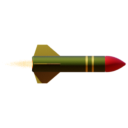
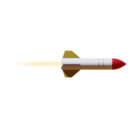
loading bars for slow weapons

Changed region(s): [[0.0938, 0.3438, 0.9688, 0.6562]]

diff --git a/entities.py b/entities.py
@@ -24,6 +24,23 @@ class Health(StatusBar):
         pygame.draw.rect(self.image, "red", (0, 0, self.rect.width, self.rect.height))
         pygame.draw.rect(self.image, "green", (0, 0, self.rect.width * ratio, self.rect.height))
 
+class ReloadBar(StatusBar):
+    def __init__(self, x, y, w, h, reload_time):
+        super().__init__(x, y, w, h, reload_time)
+
+    def update(self, reload_time, reload_timer):
+        self.max_level = reload_time
+        self.level = reload_timer
+        if self.max_level == 0:
+            return
+        ratio = self.level / self.max_level
+        self.image.fill((0, 0, 0, 0))
+        if self.level >= self.max_level:
+            color = (0, 127, 255)
+        else:
+            color = (100, 100, 100)
+        pygame.draw.rect(self.image, color, (0, 0, self.rect.width * ratio, self.rect.height))
+
 class Player(pygame.sprite.Sprite):
     def __init__(self, groups_dict, name, image, controller_number, engine, armor, weapon_list):
         super().__init__(*groups_dict.values())
@@ -89,9 +106,13 @@ class Player(pygame.sprite.Sprite):
         # clamp movement to bounds    
         self.rect.clamp_ip(inflated_boundary)
 
-        for weapon in self.active_weapons:
+        for index, weapon in enumerate(self.active_weapons):
             if weapon.reload_timer < weapon.reload_time:
                 weapon.reload_timer += dt
+            if weapon.reload_bar:
+                weapon.reload_bar.update(weapon.reload_time, weapon.reload_timer)
+                weapon.reload_bar.rect.y = self.rect.y + (index * 5)
+                weapon.reload_bar.rect.x = self.rect.centerx - weapon.reload_bar.rect.width/2
 
         self.hp_bar.level = self.hp
         self.hp_bar.update()
@@ -122,6 +143,10 @@ class Player(pygame.sprite.Sprite):
         surface.blit(self.image, self.rect)
         # draw hp_bar
         surface.blit(self.hp_bar.image, (self.hp_bar.rect))
+        # draw reload bar(s)
+        for weapon in self.active_weapons:
+            if weapon.reload_bar:
+                surface.blit(weapon.reload_bar.image, (weapon.reload_bar.rect))
 
     def shoot(self, weapon_index):
         weapon = self.weapon_list[weapon_index]

diff --git a/components.py b/components.py
@@ -133,6 +133,8 @@ class Weapon(Component):
         self.impact_magnitude_scheme = config.impact_magnitude_scheme
         self.detonable = config.detonable
         
+        self.reload_bar = None
+        
         self.recoil = None
         self.impact = None
 
@@ -161,6 +163,11 @@ class Weapon(Component):
         self.proj_move_pattern = self.move_pattern
         self.proj_speed = self.projectile_speed_scheme[self.upgrade_level]
         self.damage = self.damage_scheme[self.upgrade_level]
+
+        if self.reload_time >= 1.0:
+            self.reload_bar = ReloadBar(0, 0, 64, 5, self.reload_time)
+        else:
+            self.reload_bar = None
 
         if self.freeze_scheme:
             self.freeze = self.freeze_scheme[self.upgrade_level]
@@ -286,7 +293,7 @@ rockets_config = WeaponConfig(
     upgrade_costs=[1000 + i*500 for i in range(12)],
     proj_image=rocket_img,
     reload_time_scheme=[3.333, 3.167, 3.0, 2.833, 2.667, 2.5, 2.333, 2.167, 2.0, 1.833, 1.667, 1.5, 1.333],
-    projectile_speed_scheme=[900]*13,
+    projectile_speed_scheme=[1200]*13,
     damage_scheme=[25 + i*5 for i in range(1, 14)],
     freeze_scheme=None,
     recoil_scheme=None,

diff --git a/states.py b/states.py
@@ -317,6 +317,7 @@ class GamePlay(State):
     
     def reset(self, boundary):
         self.level = game_levels.pop(0)
+        self.level.reset()
         self.level_timer = 0
         self.boundary = boundary
         

diff --git a/constants.py b/constants.py
@@ -1,7 +1,7 @@
 # game size
 GAME_WIDTH = 1280*1.5
 GAME_HEIGHT = 720*1.5
-SCALE_FACTOR = 1.3
+SCALE_FACTOR = 1
 
 # deadzones and margins
 MOVE_DEADZONE = 0.05
